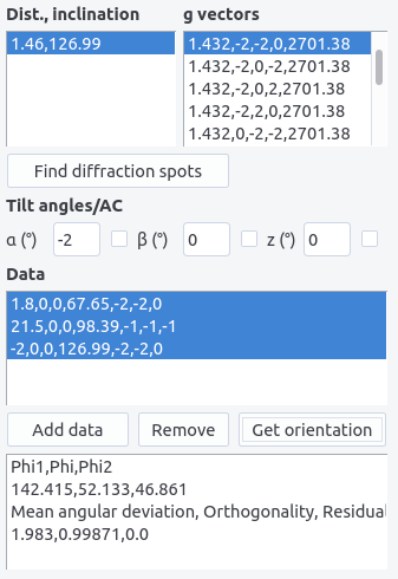
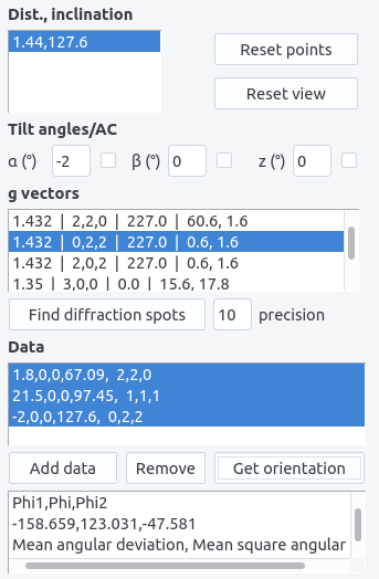
doc modified

diff --git a/doc/docs/diffraction.md b/doc/docs/diffraction.md
@@ -136,13 +136,15 @@ Alternatively, the structure can be set by filling the $a,b,c$  and $\alpha$, $\
 
 - The distance $d$ (A) and the inclination angle $\eta$ are indicated in the __Dist, Inclination__ box.
 
+- Indicate a value in px  in the ```precision``` box. The g-vectors will be chosen within the uncertainty range $\pm$ the precision. By default, the value is 10 px.
+
 - Click on ``` Find diffraction spots ``` to identify the spot . The results appear in the __g vectors__ box with the scheme
 ```
 
-d(A), h,k,l, Intensity(arb. units)
+d(A) |  h,k,l | Intensity(arb. units) | angles
 
 ```
-The diffraction vectors shown are  within a $\pm$ 10 % range around the measured $d$.
+The angles values are explained below to determine orientation from a set of diffraction vectors.
 
 The data $(h,k,l)$, the inclination angle $\eta$ and the tilt angles, can be used to plot [stereographic projection from a diffraction vector](stereoproj.md#from-a-diffraction-vector)
 
@@ -152,7 +154,7 @@ The data $(h,k,l)$, the inclination angle $\eta$ and the tilt angles, can be use
 If a set of at least 3 linearly independent diffraction vectors are given, the orientation can be retrieved knowing the position of the vectors in the sample coordinates $s$ (see below regarding ambiguities). Given the direction $X$ in the crystal $c$ coordinates:
 
 $$
-O_c  X = O_s  
+G_c  X = G_s  
 \begin{pmatrix} 
 1\\
 0 \\
@@ -163,23 +165,26 @@ $$
  where 
  
 $$
-O_c=D^\ast \begin{pmatrix} 
+G_c=D^\ast \begin{pmatrix} 
 h_1 & k_1 & l_1\\
 & ... & \\
 h_N & k_N & l_N		
 \end{pmatrix}
 $$
 
+ are the the g-vectors in the crystal coordinates and
 $D^\ast$ is defined [here](stereoproj.md#setting-up-the-crystal), and: 
 
 $$ 
-O_s=\begin{pmatrix} 
+G_s=\begin{pmatrix} 
 x_1 & y_1 & z_1\\
 & ... & \\
 x_N & y_N & z_N		
 \end{pmatrix}
 $$
 
+are the g-vectors in the sample coordinates.
+ 
 The coordinates $x_i,y_i,z_i$ are obtained by appropriate rotation in the sample coordinates. For a double tilt holder, with no angle between the vertical direction and the $\alpha$-tilt axis, the coordinates of the diffraction vector $i$ is:
 
 $$
@@ -202,66 +207,78 @@ $$
 The equations
 
 $$
-O_cX=O_s [1,0,0]^T \\
-O_cY=O_s [0,1,0]^T \\
-O_cZ =O_s [0,0,1]^T
+G_cX=G_s [1,0,0]^T \\
+G_cY=G_s [0,1,0]^T \\
+G_cZ =G_s [0,0,1]^T
 $$	
 
-can be solved, using the least square method, for 2,3, 4 or 5 inputs. 
+lead to:
+
+$$
+RG_c^T=G_s^T
+$$
+
+where $R$ is a Euler rotation matrix. Finding $R$ can be done with the approach proposed by Mackenzie [^mackenzie] using singular value decomposition:
+
+$$
+U,S,V^T=svd(G_c^TG_s) \\
+R=V U^T
+$$
+
+The Euler angles are retrieved from the $R$ matrix:
+
+$$
+\varphi_1 = \arctan (R_{02}, R_{12}) \\
+\phi = \arccos(R_{22}) \\
+\varphi_2 = \arctan (R_{20},R_{21})
+$$
 
 !!! info "180° ambiguity"
-	The above equations can be solved with only 2 inputs, the third being the cross product of the first two vectors. This however can only be achieved in specific cases which avoid the 180° ambiguity. 
+	When the inputs g-vectors are coplanar, the above equation can still be solved by defining an extra condition as the cross product of two other vectors. This however can only be achieved in specific cases which avoid the 180° ambiguity. 
 	
 	The situation described on the left side of the figure below is ambiguous even if the three diffraction vectors are linearly independent. In this case, the 180° rotation along $g_3$ leads two different crystal orientations.
 	On the contrary, the right side of the figure is not ambiguous, as the 180° rotation along $(0\bar{1}1)$ is a crystal symmetry. 
 	
 	Same ambiguities can arise when indexing zone axes that present a 180° rotational symmetry which does not exist in the crystal. 
 	
-	In ```diffraction``` ambiguous results can be detected for 2 or 3 sets of inputs. It can be reasonably considered that with 4 or 5 data sets, the ambiguity is avoided. 
+	In ```diffraction``` ambiguous results can be detected.
 	
 	![](images/ambiguity.png)
 	
-Thus for every diffraction patterns, the type of diffraction vector, inclination angle, and tilt angles need to be provided. 
+Thus for every diffraction patterns, the diffraction vector, inclination angle, and tilt angles need to be provided. 
 
-- first ``` Find diffraction spots ```
+- Fill the tilt angles fields.  Tick the box to indicate that rotation is anti-clockwise.
 
-- select both the __dist, inclination__ field and the appropriate __g vector__. Note that the $(h,k,l)$ indices can be arbitrary chosen within the list.
+- Click and ``` Find diffraction spots ```
 
-- fill the tilt angles fields.  Tick the box to indicate that rotation is anti-clockwise.
+- Select both the __dist, inclination__ field and the appropriate __g vector__. For the first condition, the indices of the g-vector can arbitrary be chosen. 
 
-- Press ```Add data ``` . A line appears ``` alpha angle, beta angle, z angle, inclination, h,k,l ```. Data can be removed by selecting the line and by pressing ``` Remove data ```.
+- Press ```Add data ```. A line appears ``` alpha angle, beta angle, z angle, inclination, h,k,l ```. Data can be removed by selecting the line and by pressing ``` Remove data ```.
 
-- Repeat the above operation for at least 2 diffraction spots. Then select the data lines and press ``` Get orientation ``` 
+- Repeat the above operations for at least 2 diffraction spots. For every conditions, the angle between the proposed g-vectors and the already chosen g-vectors are indicated. Choose the $(h,k,l)$ indices that minimize all the angles.
+
+- Then select the data lines and press ``` Get orientation ``` 
 
 ![](images/diff-data.png)
 
 The result box shows: 
 
-``` phi1, phi, phi2 (Euler angles), mean angular deviation, orthogonality, residual ``` 
+``` phi1, phi, phi2 (Euler angles), mean angular deviation, mean square angular deviation ``` 
 
-If the analysis fails the message ``` Colinear vectors or inconsistent inputs ``` appears. 2 sets of ```phi1, phi, phi2``` angles are displayed if the results are ambiguous.
+Two sets of ```phi1, phi, phi2``` angles are displayed if the results are ambiguous.
 
-The Euler angles are retrieved from the $X,Y,Z$ directions:
 
-$$
-\varphi_1 = \arctan (X_3, Y_3) \\
-\phi = \arccos(Z_3) \\
-\varphi_2 = \arctan (Z_1, Z_2)
-$$
+The accuracy of the result is given by: 
 
-The accuracy of the result can be addressed by several indicators: 
-
-- The ```mean angular``` deviation is the average angle between each diffraction vector computed from the Euler angles and the experimental values:
+- The ```mean angular  deviation```, which is the average angle between each diffraction vector computed from the Euler angles and the experimental values:
 
 $$
-\langle \theta_d \rangle = \| {\sum_i \arccos(R_{\varphi_1,\phi,\varphi_2} \vec{g}_i \cdot [x_i,y_i,z_i]^T) }\|
+\langle \theta_d \rangle = \| {\sum_i^N \arccos(R \vec{g}_i \cdot [x_i,y_i,z_i]^T) }\|/N
 $$
 
-where $\vec{g}_i$ is the normalized diffraction vector corresponding to the $(h_i,k_i,l_i)$ plane, $R_{\varphi_1,\phi,\varphi_2}$ is the rotation matrix defined [here](stereoproj.md#euler-angles).
+where $\vec{g}_i$ is the normalized diffraction vector corresponding to the $(h_i,k_i,l_i)$ plane.
 
-- The ``` orthogonality ``` between the $X,Y,Z$ direction is evaluated by $(X \times Y) \cdot Z$ and thus should be close to 1.
-
-- The ``` residual```, is the sum of squared residuals of the least square method for determining $Z$ (works only for more than 3 inputs).
+- In the approach to find $R$, the ``` mean square angular deviation ```, $\langle \theta_d^2 \rangle$, is minimized. This value should then be as small as possible.
 
 
 ## Spectrum
@@ -270,4 +287,5 @@ Spectra, i.e. peak intensity with respect to the d-spacing, can be plotted from 
 
 ![](images/spectrum.png)
 
+[^mackenzie]: J. Mackenzie, Acta Cryst. 1957, 10, 61.
 
